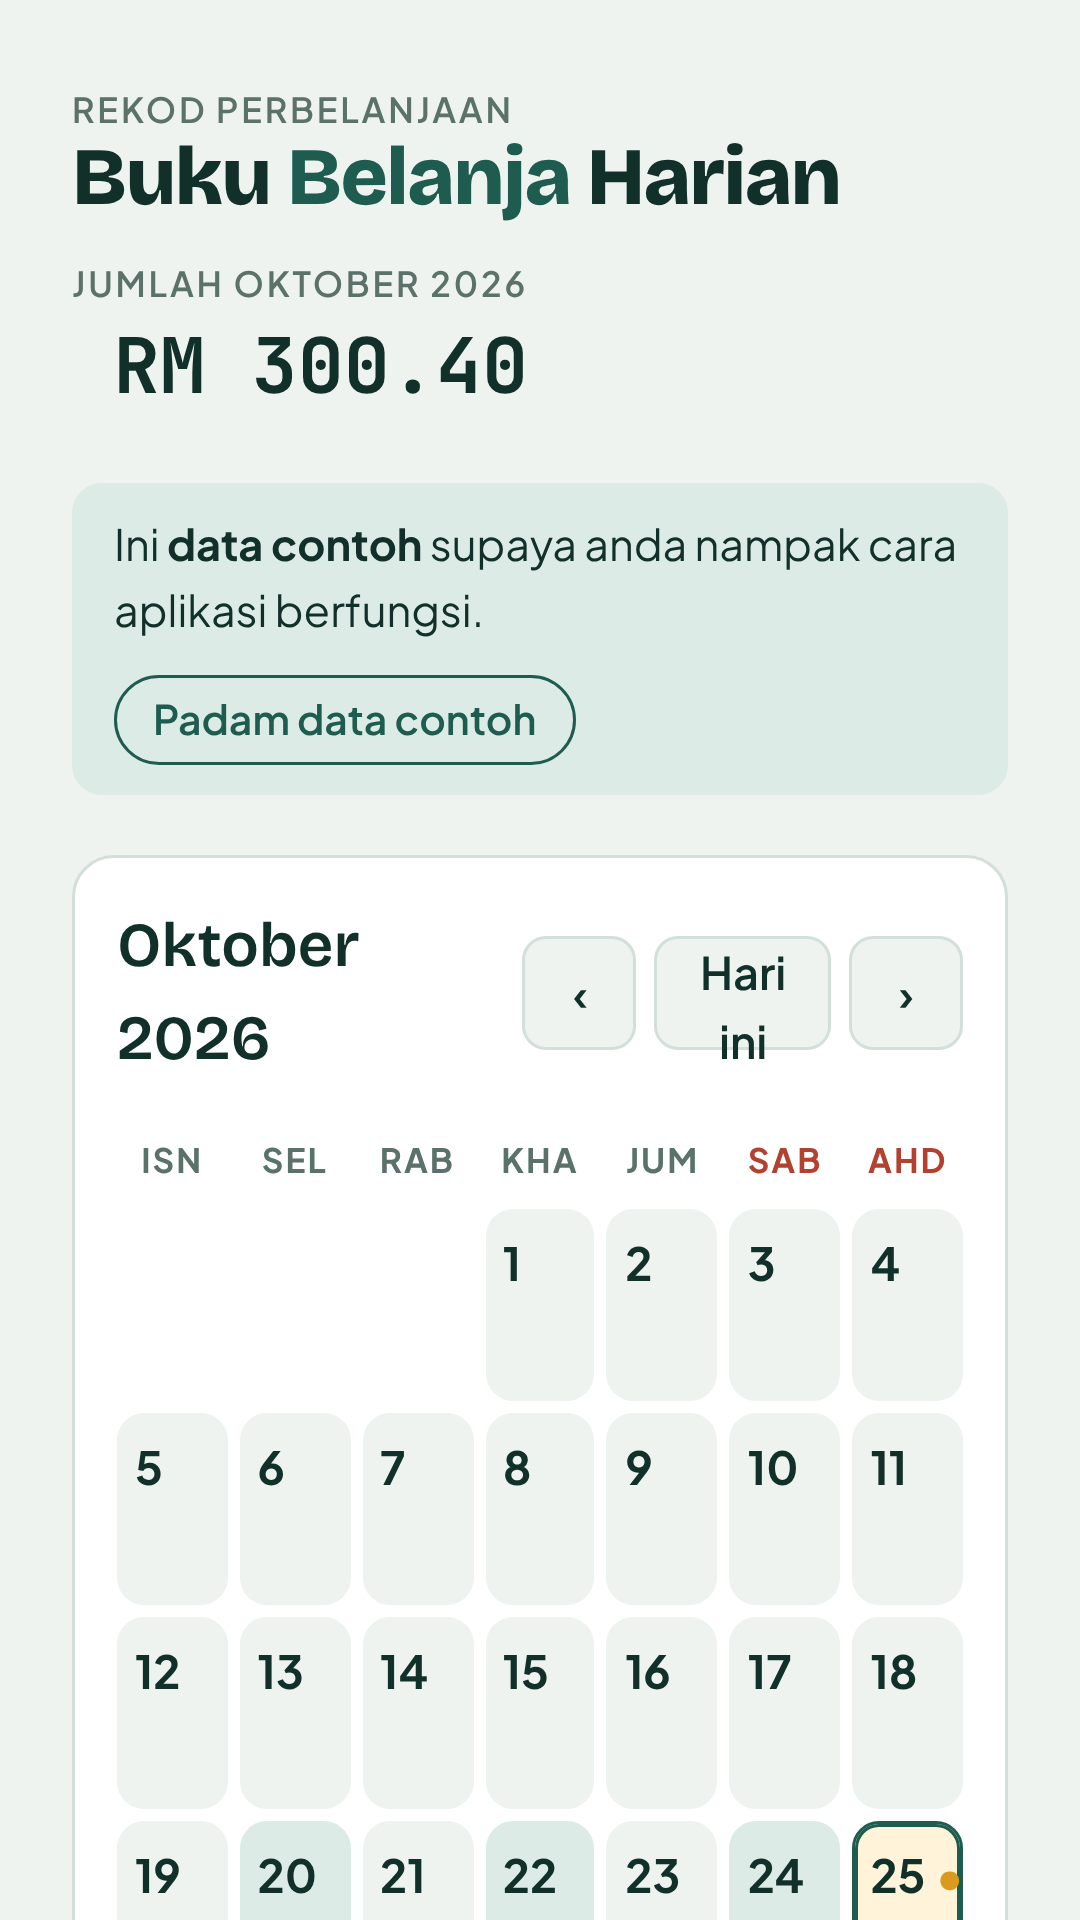
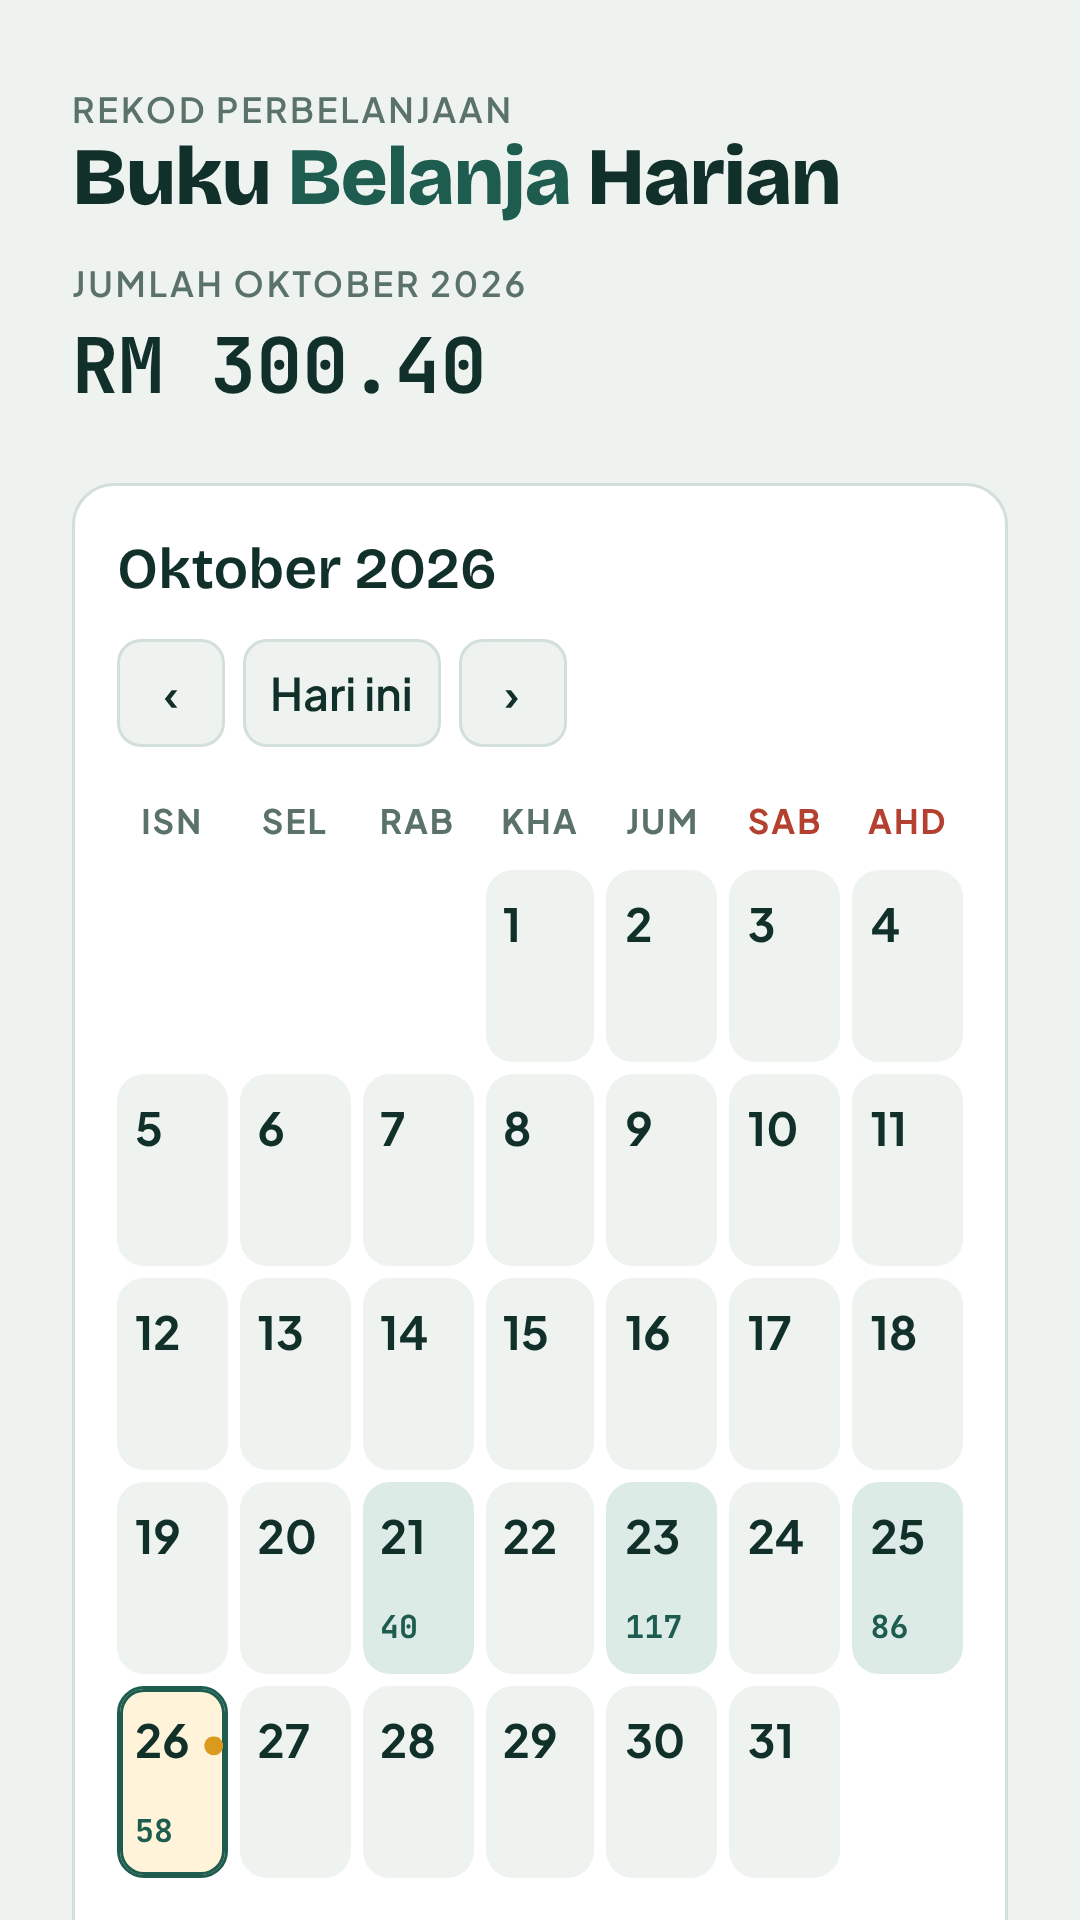
Buang data contoh dan kotak notisnya; kemaskan paparan telefon
App kini bermula kosong. Data contoh dari versi awal dibuang secara
automatik. Jumlah harian dibundarkan supaya tidak terpotong, dan
butang navigasi bulan tidak lagi melimpah di skrin sempit.

Claude-Session: https://claude.ai/code/session_01By2VuKKkggUPeNJKaKhTmC

diff --git a/index.html b/index.html
@@ -54,20 +54,19 @@ header { display: flex; flex-wrap: wrap; align-items: flex-end; justify-content:
 header h1 { font-size: clamp(1.7rem, 5vw, 2.4rem); font-weight: 800; letter-spacing: -0.02em; line-height: 1.05; }
 header h1 span { color: var(--brand); }
 .month-total { text-align: right; }
+@media (max-width: 480px) { .month-total { text-align: left; } }
 .label { font-size: 0.72rem; text-transform: uppercase; letter-spacing: 0.08em; color: var(--muted); font-weight: 600; }
 .month-total .num { font-size: 1.6rem; font-weight: 700; }
 
-.notice { display: flex; flex-wrap: wrap; align-items: center; gap: 10px 14px; background: var(--brand-soft); border-radius: 10px; padding: 10px 14px; font-size: 0.9rem; }
-.notice button { background: none; border: 1px solid var(--brand); color: var(--brand); border-radius: 999px; padding: 4px 12px; font-weight: 600; font-size: 0.85rem; }
 
 .main { display: grid; grid-template-columns: minmax(0, 1.25fr) minmax(0, 1fr); gap: 20px; align-items: start; }
 @media (max-width: 820px) { .main { grid-template-columns: minmax(0, 1fr); } }
 
 .cal { background: var(--surface); border: 1px solid var(--line); border-radius: 14px; padding: 14px; }
-.cal-head { display: flex; align-items: center; justify-content: space-between; gap: 8px; margin-bottom: 12px; }
-.cal-head h2 { font-size: 1.3rem; font-weight: 600; }
+.cal-head { display: flex; flex-wrap: wrap; align-items: center; justify-content: space-between; gap: 8px; margin-bottom: 12px; }
+.cal-head h2 { font-size: 1.2rem; font-weight: 600; white-space: nowrap; }
 .nav { display: flex; gap: 6px; }
-.nav button { border: 1px solid var(--line); background: var(--bg); border-radius: 8px; min-width: 38px; height: 38px; padding: 0 10px; font-weight: 600; }
+.nav button { white-space: nowrap; border: 1px solid var(--line); background: var(--bg); border-radius: 8px; min-width: 36px; height: 36px; padding: 0 8px; font-weight: 600; }
 .grid { display: grid; grid-template-columns: repeat(7, minmax(0, 1fr)); gap: 4px; }
 .dow { text-align: center; font-size: 0.7rem; font-weight: 700; letter-spacing: 0.06em; text-transform: uppercase; color: var(--muted); padding: 4px 0; }
 .dow.wkend { color: var(--danger); }
@@ -148,10 +147,6 @@ textarea { resize: vertical; min-height: 64px; }
     </div>
   </header>
 
-  <div class="notice" id="sampleNotice" hidden>
-    <span>Ini <strong>data contoh</strong> supaya anda nampak cara aplikasi berfungsi.</span>
-    <button type="button" id="clearSample">Padam data contoh</button>
-  </div>
 
   <div class="main">
     <section class="cal" aria-label="Kalendar">
@@ -226,35 +221,24 @@ textarea { resize: vertical; min-height: 64px; }
   const sum = (arr) => arr.reduce((s, e) => s + (Number(e.amt) || 0), 0);
   const uid = () => Date.now().toString(36) + Math.random().toString(36).slice(2, 7);
 
-  let store = { sample: false, days: {} };
+  let store = { days: {} };
   function load() {
     try {
       const raw = localStorage.getItem(KEY);
-      if (raw) { store = JSON.parse(raw); return; }
+      if (raw) store = JSON.parse(raw);
     } catch (e) {}
-    seed();
+    if (!store || typeof store.days !== "object") store = { days: {} };
+    // Buang data contoh daripada versi awal app
+    let changed = false;
+    Object.keys(store.days).forEach((k) => {
+      const kept = store.days[k].filter((e) => !e.sample);
+      if (kept.length !== store.days[k].length) changed = true;
+      if (kept.length) store.days[k] = kept; else delete store.days[k];
+    });
+    if ("sample" in store) { delete store.sample; changed = true; }
+    if (changed) save();
   }
   function save() { try { localStorage.setItem(KEY, JSON.stringify(store)); } catch (e) {} }
-
-  function seed() {
-    const t = new Date();
-    const add = (offset, items) => {
-      const d = new Date(t.getFullYear(), t.getMonth(), t.getDate() - offset);
-      store.days[keyOf(d)] = items.map((i) => ({ id: uid(), ...i, sample: true }));
-    };
-    add(0, [
-      { item: "Nasi lemak + teh tarik", amt: 7.5, cat: "Makan", note: "Sarapan di gerai depan pejabat" },
-      { item: "Tambah nilai Touch 'n Go", amt: 50, cat: "Pengangkutan", note: "" }
-    ]);
-    add(1, [{ item: "Barang dapur mingguan", amt: 86.4, cat: "Barang dapur", note: "Beras 5kg, telur, sayur, ayam" }]);
-    add(3, [
-      { item: "Bil elektrik", amt: 112.3, cat: "Bil", note: "Bayar melalui aplikasi" },
-      { item: "Roti canai", amt: 4.2, cat: "Makan", note: "" }
-    ]);
-    add(5, [{ item: "Minyak kereta RON95", amt: 40, cat: "Pengangkutan", note: "" }]);
-    store.sample = true;
-    save();
-  }
 
   const today = new Date(); today.setHours(0, 0, 0, 0);
   let view = new Date(today.getFullYear(), today.getMonth(), 1);
@@ -295,12 +279,11 @@ textarea { resize: vertical; min-height: 64px; }
         (date.getTime() === today.getTime() ? " today" : "") +
         (date.getTime() === selected.getTime() ? " sel" : "");
       btn.setAttribute("aria-label", HARI[date.getDay()] + " " + d + " " + BULAN[m] + (total ? ", " + rm(total) : ""));
-      btn.innerHTML = '<span class="d">' + d + '</span>' + (total ? '<span class="amt">' + total.toFixed(2) + '</span>' : "");
+      btn.innerHTML = '<span class="d">' + d + '</span>' + (total ? '<span class="amt">' + Math.round(total) + '</span>' : "");
       btn.addEventListener("click", () => selectDay(date, true));
       grid.appendChild(btn);
     }
     $("monthTotal").textContent = rm(monthSum);
-    $("sampleNotice").hidden = !store.sample;
   }
 
   function esc(s) { return String(s).replace(/[&<>"']/g, (c) => ({ "&": "&amp;", "<": "&lt;", ">": "&gt;", '"': "&quot;", "'": "&#39;" }[c])); }
@@ -402,7 +385,7 @@ textarea { resize: vertical; min-height: 64px; }
     const rec = { item, amt: Math.round(amt * 100) / 100, cat: selCat, note };
     if (editingId) {
       const i = list.findIndex((e) => e.id === editingId);
-      if (i >= 0) list[i] = { ...list[i], ...rec, sample: false };
+      if (i >= 0) list[i] = { ...list[i], ...rec };
     } else {
       list.push({ id: uid(), ...rec });
     }
@@ -412,14 +395,6 @@ textarea { resize: vertical; min-height: 64px; }
     toast(wasEdit ? "Perubahan disimpan" : "Nota disimpan");
   });
 
-  $("clearSample").addEventListener("click", () => {
-    Object.keys(store.days).forEach((k) => {
-      store.days[k] = store.days[k].filter((e) => !e.sample);
-      if (!store.days[k].length) delete store.days[k];
-    });
-    store.sample = false;
-    save(); renderCal(); renderPanel(); toast("Data contoh dipadam");
-  });
 
   $("prevM").addEventListener("click", () => { view = new Date(view.getFullYear(), view.getMonth() - 1, 1); renderCal(); });
   $("nextM").addEventListener("click", () => { view = new Date(view.getFullYear(), view.getMonth() + 1, 1); renderCal(); });
